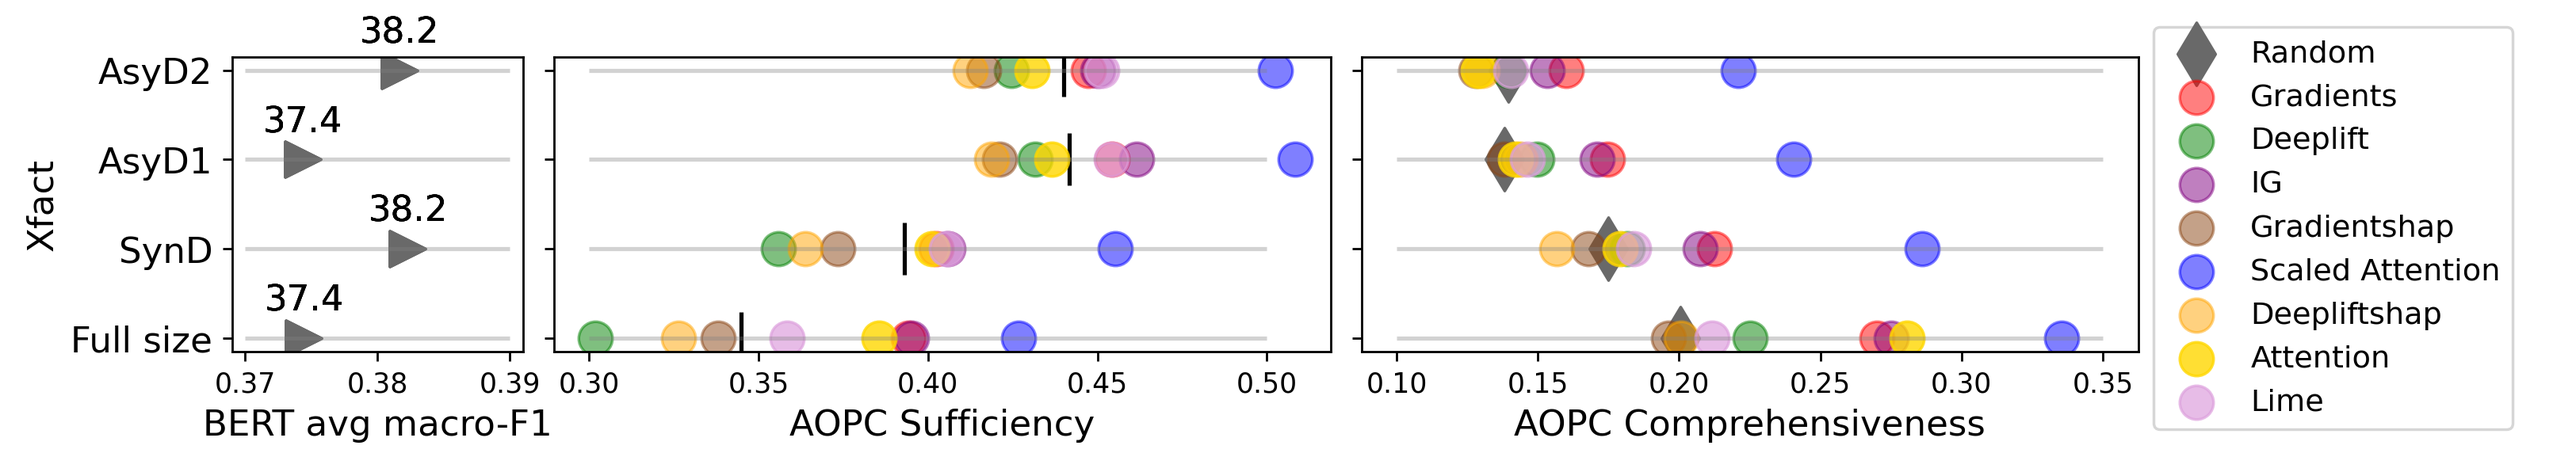
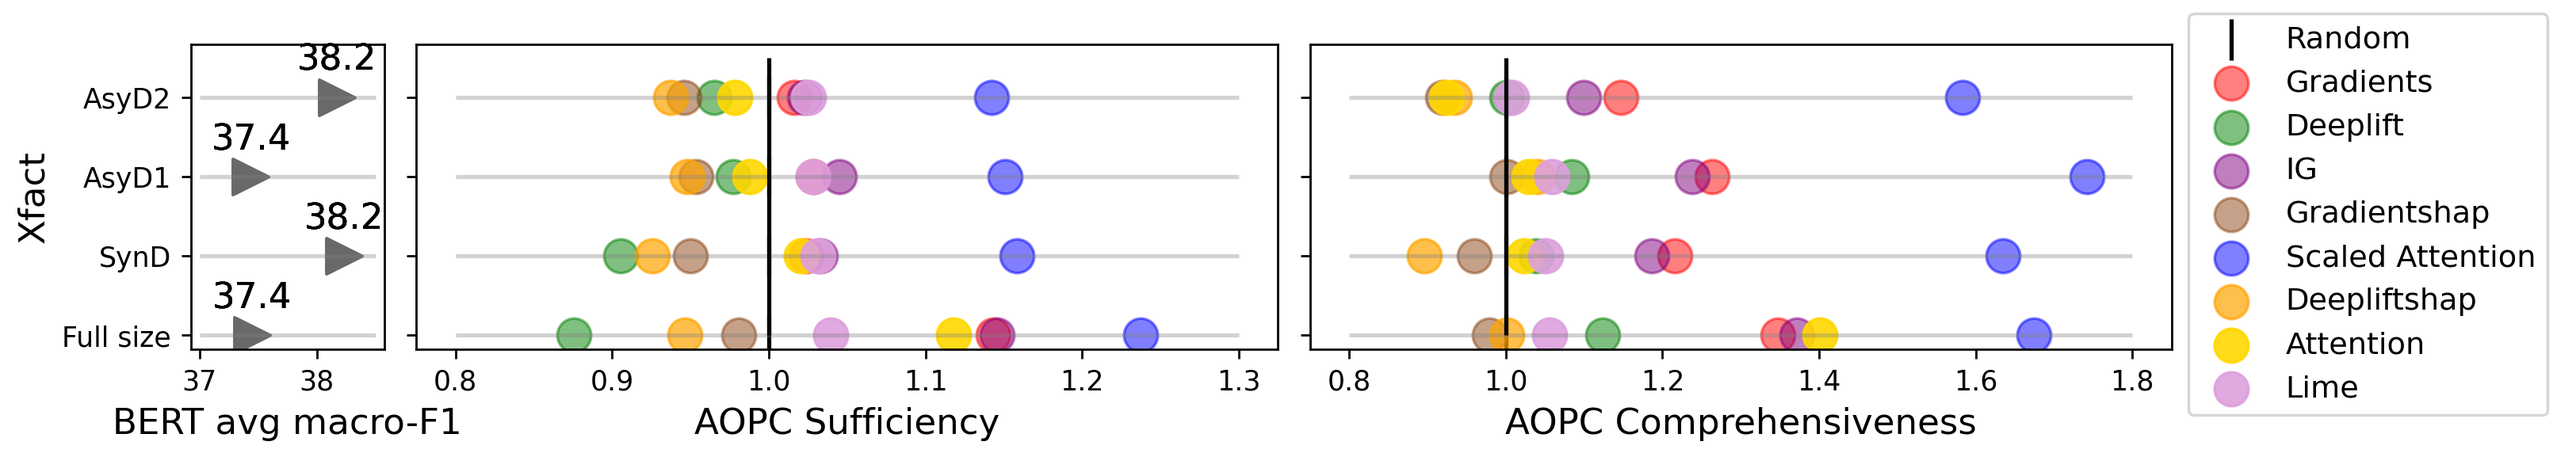
d

diff --git a/saved_everything/lollipop_ration.py b/saved_everything/lollipop_ration.py
@@ -20,6 +20,7 @@ df['scaled attention'] = df['scaled attention']/df['random']
 df['ig'] = df['ig']/df['random']
 
 df['random'] = df['random']/df['random']
+df['mean-f1'] = df['mean-f1']*100
 
 print(df)
 
@@ -39,47 +40,47 @@ domainlabel_size = 20
 legend_font_size = 11
 
 if data == 'Xfact':
-    bert_min = 0.37
-    bert_max = 0.39
-    suff_min = 0.3
-    suff_max = 0.5
-    comp_min = 0.1
-    comp_max = 0.35
+    bert_min = 37
+    bert_max = 38.5
+    suff_min = 0.8
+    suff_max = 1.3
+    comp_min = 0.8
+    comp_max = 1.8
 elif data == 'Factcheck':
-    bert_min = 0.65
-    bert_max = 0.8
-    suff_min = 0.15
-    suff_max = 0.55
-    comp_min = 0.1
-    comp_max = 0.6
-elif data == 'Agnews':
-    bert_min = 0.8
-    bert_max = 0.95
-    suff_min = 0.25
-    suff_max = 0.5
-    comp_min = 0.1
-    comp_max = 0.4
-elif data == 'Amazdigimu':
-    bert_min = 0.5
-    bert_max = 0.8
-    suff_min = 0.0
-    suff_max = 0.7
-    comp_min = 0.0
-    comp_max = 0.7
-elif data == 'Amazpantry':
-    bert_min = 0.65
-    bert_max = 0.75
-    suff_min = 0.0
-    suff_max = 0.4
+    bert_min = 70
+    bert_max = 75
+    suff_min = 0.8
+    suff_max = 2.9
     comp_min = 0.2
-    comp_max = 0.7
+    comp_max = 4.9
+elif data == 'Agnews':
+    bert_min = 84
+    bert_max = 91
+    suff_min = 0.9
+    suff_max = 1.6
+    comp_min = 0.8
+    comp_max = 3.4
+elif data == 'Amazdigimu':
+    bert_min = 55
+    bert_max = 75
+    suff_min = 0.3
+    suff_max = 3.5
+    comp_min = 0.5
+    comp_max = 3
+elif data == 'Amazpantry':
+    bert_min = 67
+    bert_max = 72
+    suff_min = 0.5
+    suff_max = 2.5
+    comp_min = 0.6
+    comp_max = 2.3
 elif data == 'Yelp':
-    bert_min = 0.55
-    bert_max = 0.65
-    suff_min = 0.1
-    suff_max = 0.5
-    comp_min = 0.1
-    comp_max = 0.6
+    bert_min = 59
+    bert_max = 62
+    suff_min = 0.7
+    suff_max = 2.7
+    comp_min = 0.6
+    comp_max = 2.8
 else:
     bert_min = 0.37
     bert_max = 0.39
@@ -89,7 +90,7 @@ else:
     comp_max = 0.35
 
 
-fig, ax = plt.subplots(1, 3, gridspec_kw={'width_ratios': [1.5, 4, 4]}, sharey='all', figsize=(13,2.3))
+fig, ax = plt.subplots(1, 3, gridspec_kw={'width_ratios': [0.9, 4, 4]}, sharey='all', figsize=(13,2.3))
 temporal_order = ["Full size", "SynD", "AsyD1", "AsyD2"]
 
 
@@ -101,7 +102,7 @@ ax[0].set_yticklabels(my_range)
 ax[0].hlines(y=my_range, xmin=bert_min, xmax=bert_max, color='grey', alpha=0.35)
 ax[0].scatter(df['mean-f1'], df['Domain'], color='dimgray', alpha=1, label='F1', marker=">", s=166) # marker='|'
 for x,y in zip(df['mean-f1'],df['Domain']):
-    label = format(100*x, '.1f')
+    label = format(x, '.1f')
     ax[0].annotate(label, # this is the text
                  (x,y), # these are the coordinates to position the label
                  textcoords="offset points", # how to position the text
@@ -118,7 +119,7 @@ plt.plot()
 
 ############################################################   SUFF  
 ax[1].hlines(y=my_range, xmin=suff_min, xmax=suff_max, color='grey', alpha=0.35)
-ax[1].vlines(x = 1, ymin=0, ymax=4, color='black', alpha=0.5)
+ax[1].vlines(x = 1, ymin=0, ymax=3.5, color='black', alpha=1)
 ax[1].scatter(suff['random'], my_range, color='black', alpha=1, label='Random', marker='|', s=230)
 
 ax[1].scatter(suff['gradients'], my_range, color='red', alpha=ALPHA , label='Gradients', s=SIZE)
@@ -126,19 +127,16 @@ ax[1].scatter(suff['deeplift'], my_range, color='green', alpha=ALPHA , label='De
 ax[1].scatter(suff['ig'], my_range, color='purple', alpha=ALPHA , label='IG', s=SIZE)
 ax[1].scatter(suff['gradientshap'], my_range, color='saddlebrown', alpha=ALPHA , label='Gradientshap', s=SIZE)
 ax[1].scatter(suff['scaled attention'], my_range, color='blue', alpha=ALPHA , label='Scaled Attention', s=SIZE)
-ax[1].scatter(suff['deepliftshap'], my_range, color='orange', alpha=ALPHA , label='Deepliftshap', s=SIZE)
-ax[1].scatter(suff['attention'], my_range, color='gold', alpha=ALPHA+0.3, label='Attention', s=SIZE)
-ax[1].scatter(suff['lime'], my_range, color='plum', alpha=ALPHA+0.2 , label='Lime', s=SIZE)
+ax[1].scatter(suff['deepliftshap'], my_range, color='orange', alpha=ALPHA+0.2, label='Deepliftshap', s=SIZE)
+ax[1].scatter(suff['attention'], my_range, color='gold', alpha=ALPHA+0.4, label='Attention', s=SIZE)
+ax[1].scatter(suff['lime'], my_range, color='plum', alpha=ALPHA+0.4, label='Lime', s=SIZE)
 ax[1].set_xlabel('AOPC Sufficiency',fontsize=xlabel_size)
 plt.plot()
 
 
 ########################################   COM  #################################
-# plt.subplot(133)
-
-# The horizontal plot is made using the hline function
 ax[2].hlines(y=my_range, xmin=comp_min, xmax=comp_max, color='grey', alpha=0.35)
-ax[2].vlines(x = 1, ymin=0, ymax=4, color='black', alpha=1)
+ax[2].vlines(x = 1, ymin=0, ymax=3.5, color='black', alpha=1)
 ax[2].scatter(comp['random'], my_range, color='black', alpha=1, label='Random', marker='|', s=230)
 
 ax[2].scatter(comp['gradients'], my_range, color='red', alpha=ALPHA , label='Gradients', s=SIZE)
@@ -146,18 +144,18 @@ ax[2].scatter(comp['deeplift'], my_range, color='green', alpha=ALPHA , label='De
 ax[2].scatter(comp['ig'], my_range, color='purple', alpha=ALPHA , label='IG', s=SIZE)
 ax[2].scatter(comp['gradientshap'], my_range, color='saddlebrown', alpha=ALPHA , label='Gradientshap', s=SIZE)
 ax[2].scatter(comp['scaled attention'], my_range, color='blue', alpha=ALPHA , label='Scaled Attention', s=SIZE)
-ax[2].scatter(comp['deepliftshap'], my_range, color='orange', alpha=ALPHA , label='Deepliftshap', s=SIZE)
-ax[2].scatter(comp['attention'], my_range, color='gold', alpha= ALPHA+0.3, label='Attention', s=SIZE)
-ax[2].scatter(comp['lime'], my_range, color='plum', alpha=ALPHA+0.2 , label='Lime', s=SIZE)
+ax[2].scatter(comp['deepliftshap'], my_range, color='orange', alpha=ALPHA+0.2, label='Deepliftshap', s=SIZE)
+ax[2].scatter(comp['attention'], my_range, color='gold', alpha= ALPHA+0.4, label='Attention', s=SIZE)
+ax[2].scatter(comp['lime'], my_range, color='plum', alpha=ALPHA+0.4, label='Lime', s=SIZE)
 ax[2].set_xlabel('AOPC Comprehensiveness',fontsize=xlabel_size)
 plt.plot()
 
 
 plt.subplots_adjust(
-    left=0.09,
-    bottom=0.224, 
-    right=0.83, 
-    top=0.874, 
+    left=0.074,
+    bottom=0.229, 
+    right=0.843, 
+    top=0.902, 
     wspace=0.05, 
     hspace=0.2,
     )
@@ -170,5 +168,5 @@ fig1 = plt.gcf()
 
 plt.show()
 plt.draw()
-fig1.savefig('./plot/contig_'+str(data)+'.png', dpi=250)
+fig1.savefig('./plot/'+str(data)+'.png', dpi=250)
 #plt.savefig('./plot/'+str(data), format='png') # bbox_inches = 'tight', dpi=350,
